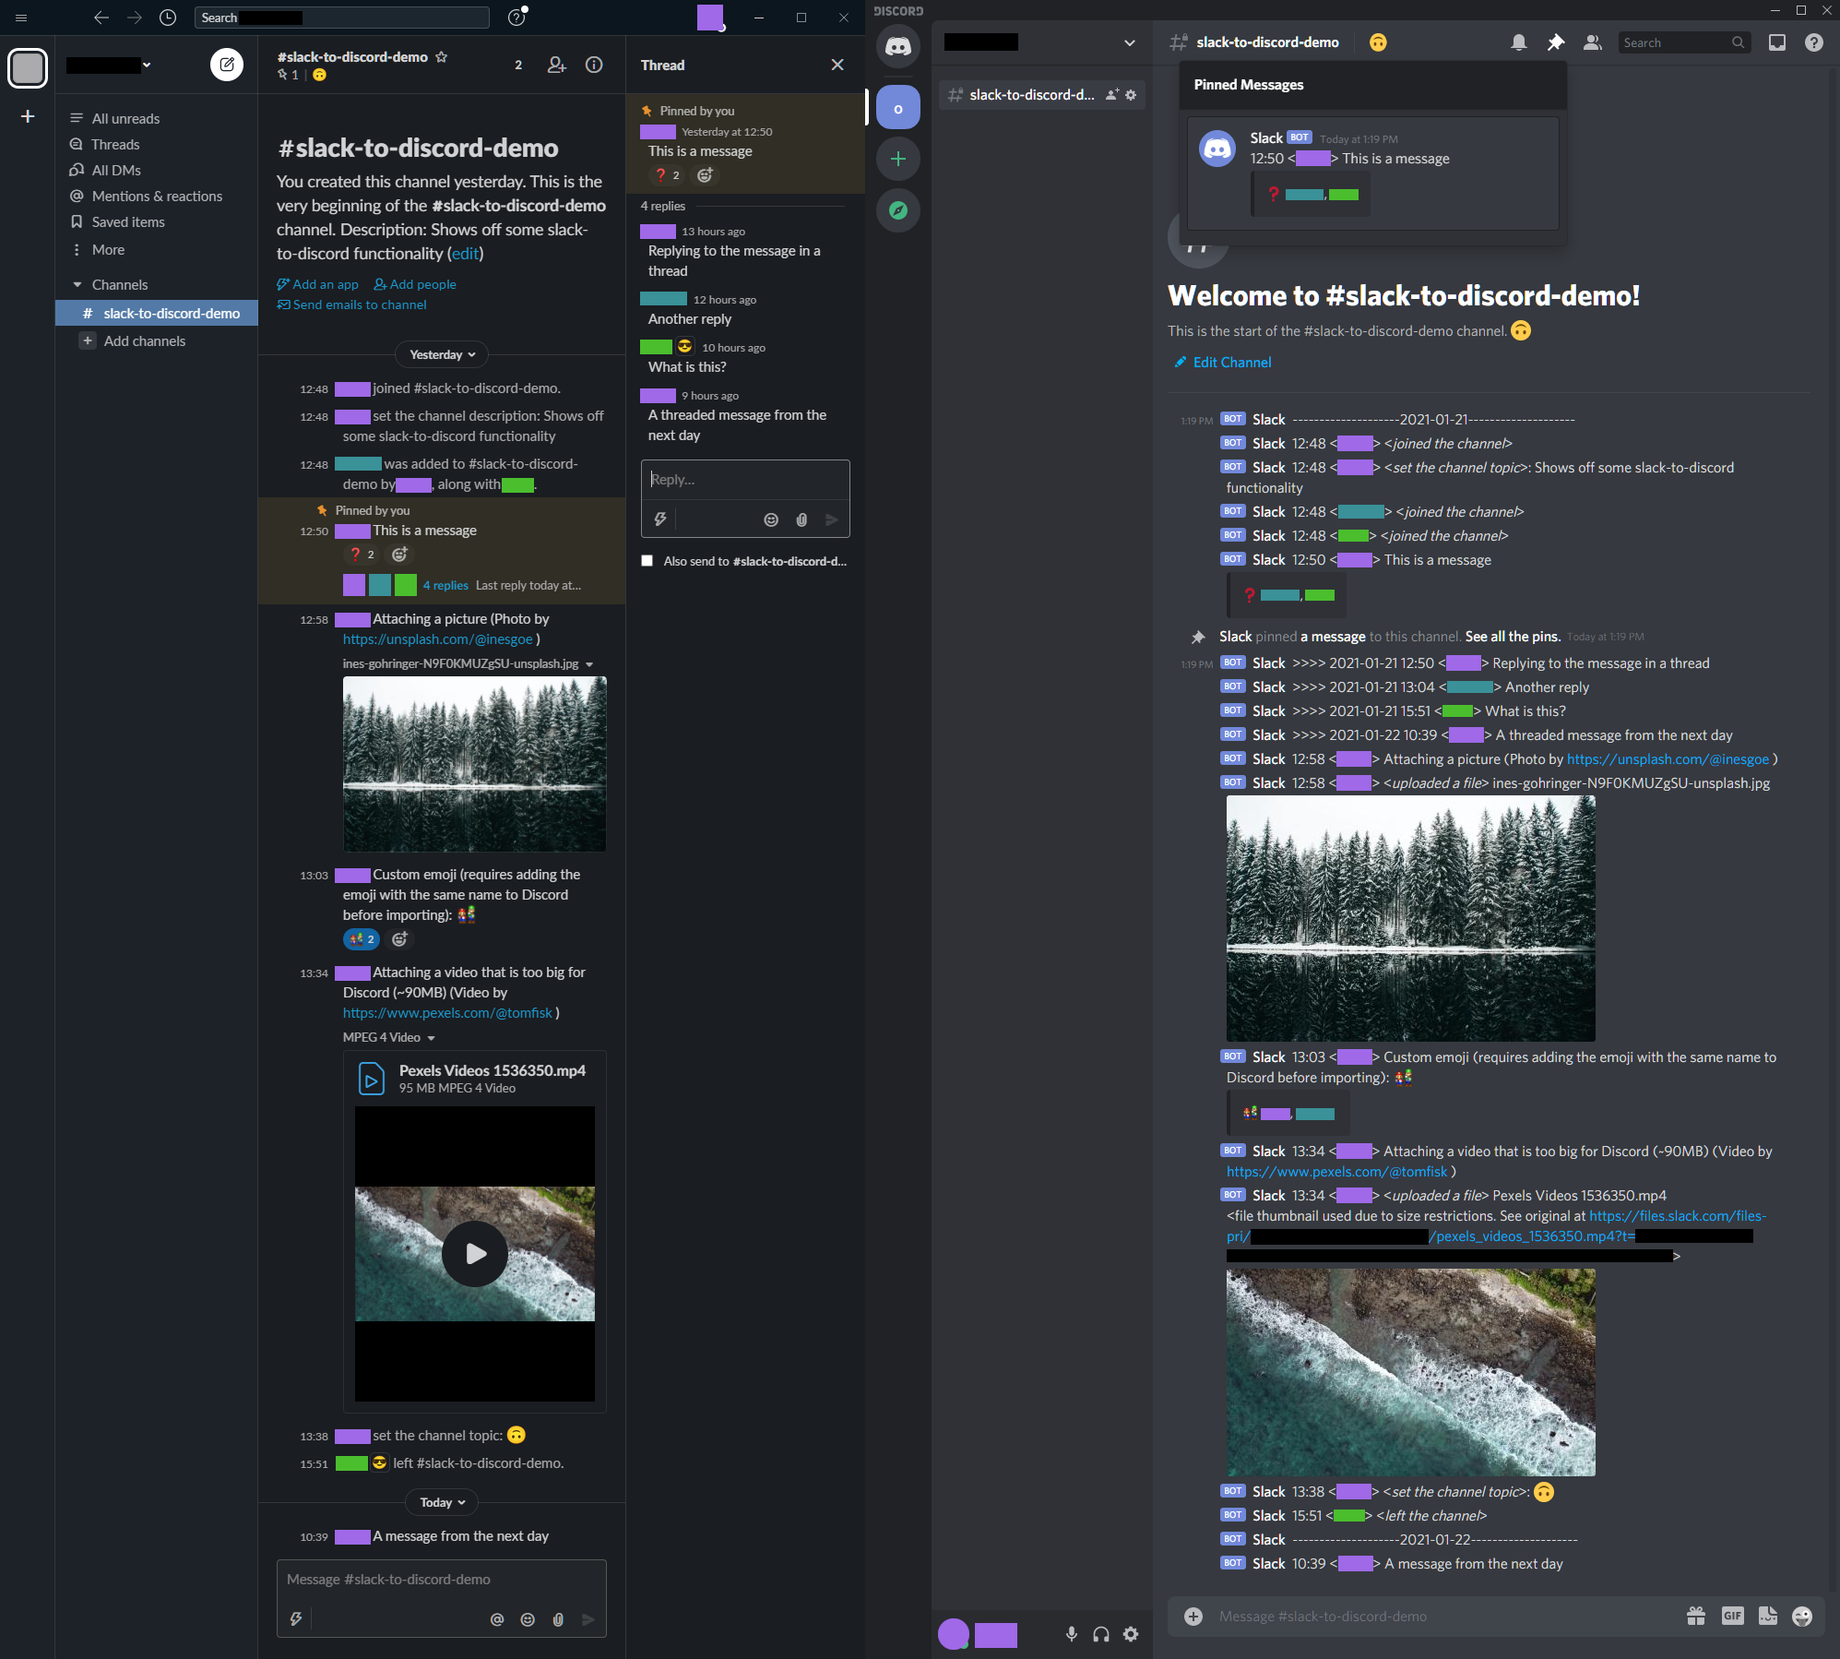
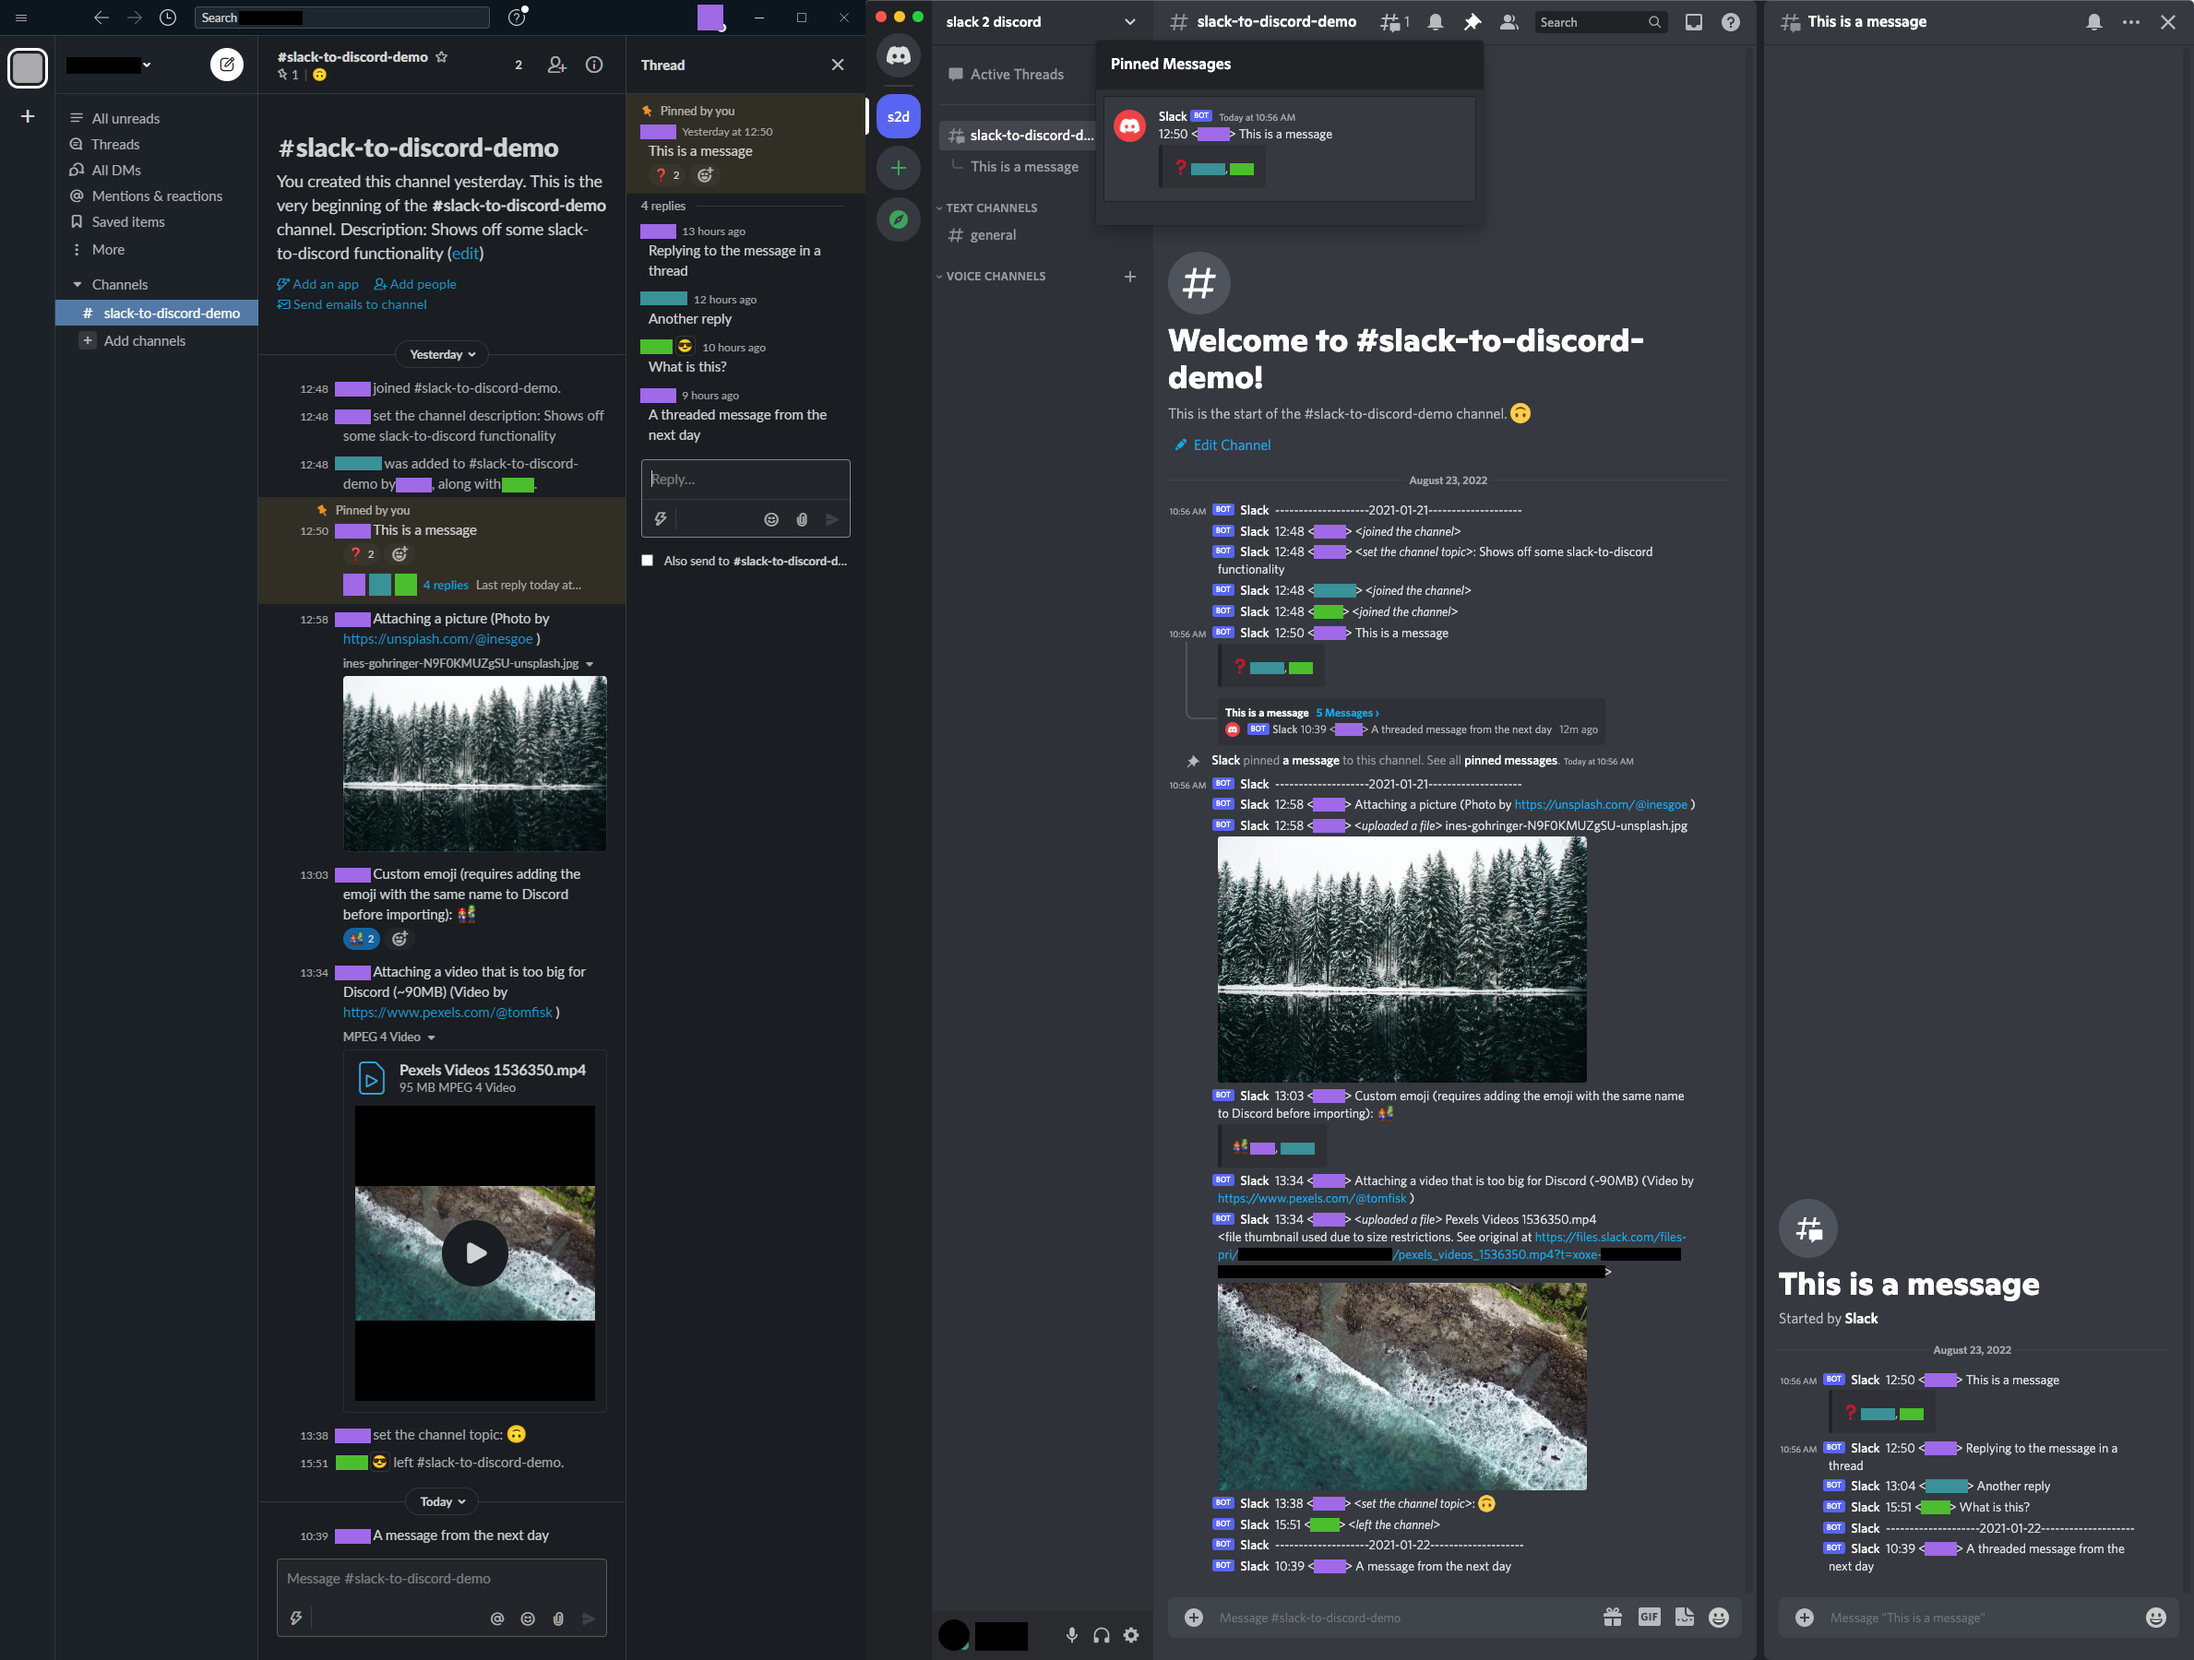
Properly implement threads
Instead of posting threads inline with a prefix, it will now use
Discord's built-in thread support.

Fixes #1

diff --git a/slack_to_discord.py b/slack_to_discord.py
@@ -17,16 +17,17 @@ from urllib.parse import urlparse
 import discord
 from discord.errors import Forbidden
 
-# Max size of message to send to Discord
+# Discord size limits
 MAX_MESSAGE_SIZE = 2000
+MAX_THREADNAME_SIZE = 100
 
 # Date and time formats
 DATE_FORMAT = "%Y-%m-%d"
 TIME_FORMAT = "%H:%M"
 
 # Formatting options for messages
-THREAD_FORMAT = ">>>> {date} {time} <**{username}**> {text}"
 MSG_FORMAT = "{time} <**{username}**> {text}"
+BACKUP_THREAD_NAME = "{date} {time}"  # used when the message to create the thread from has no text
 ATTACHMENT_TITLE_TEXT = "<*uploaded a file*> {title}"
 ATTACHMENT_ERROR_APPEND = "\n<file thumbnail used due to size restrictions. See original at <{url}>>"
 
@@ -279,9 +280,7 @@ def mark_end(iterable):
         yield True, a
 
 
-def make_discord_msgs(msg, is_reply):
-
-    msg_fmt = (THREAD_FORMAT if is_reply else MSG_FORMAT)
+def make_discord_msgs(msg):
 
     # Show reactions listed in an embed
     embed = None
@@ -295,14 +294,14 @@ def make_discord_msgs(msg, is_reply):
     # Split the text into chunks to keep it under MAX_MESSAGE_SIZE
     # Send everything except the last chunk
     content = None
-    prefix_len = len(msg_fmt.format(**{**msg, "text": ""}))
+    prefix_len = len(MSG_FORMAT.format(**{**msg, "text": ""}))
     for is_last, chunk in mark_end(textwrap.wrap(
         text=msg.get("text") or "",
         width=MAX_MESSAGE_SIZE - prefix_len,
         drop_whitespace=False,
         replace_whitespace=False
     )):
-        content = msg_fmt.format(**{**msg, "text": chunk.strip()})
+        content = MSG_FORMAT.format(**{**msg, "text": chunk.strip()})
         if not is_last:
             yield {
                 "content": content
@@ -326,7 +325,7 @@ def make_discord_msgs(msg, is_reply):
     # Send one messge per image that was posted (using the picture title as the message)
     for f in msg["files"]:
         yield {
-            "content": msg_fmt.format(**{**msg, "text": ATTACHMENT_TITLE_TEXT.format(**f)}),
+            "content": MSG_FORMAT.format(**{**msg, "text": ATTACHMENT_TITLE_TEXT.format(**f)}),
             "file_data": f,
             "embed": embed
         }
@@ -407,30 +406,33 @@ class MyClient(discord.Client):
             await self.close()
 
 
-    async def _send_slack_msg(self, channel, msg, is_reply=False):
+    async def _send_slack_msg(self, target, msg):
 
-        if not is_reply and DATE_SEPARATOR:
+        if DATE_SEPARATOR:
             msg_date = msg["date"]
             if (
                 not self._prev_msg or
                 self._prev_msg["date"] != msg_date
             ):
-                await channel.send(content=DATE_SEPARATOR.format(msg_date))
+                await target.send(content=DATE_SEPARATOR.format(msg_date))
             self._prev_msg = msg
 
+        sent = None
         pin = msg["events"].pop("pin", False)
-        for data in make_discord_msgs(msg, is_reply):
+        for data in make_discord_msgs(msg):
             for attempt in file_upload_attempts(data):
                 with contextlib.suppress(Exception):
-                    msg = await channel.send(**attempt)
+                    sent = await target.send(**attempt)
                     if pin:
                         pin = False
                         # Requires the "manage messages" optional permission
                         with contextlib.suppress(Forbidden):
-                            await msg.pin()
+                            await sent.pin()
                     break
             else:
                 print("Failed to post message: '{}'".format(data["content"]))
+
+        return sent
 
     async def _run_import(self, g):
         self._started = True
@@ -481,11 +483,17 @@ class MyClient(discord.Client):
                     await ch.edit(topic=topic)
 
                 # Send message and threaded replies
-                await self._send_slack_msg(ch, msg)
+                sent = await self._send_slack_msg(ch, msg)
                 c_msg += 1
-                for rmsg in msg["replies"]:
-                    await self._send_slack_msg(ch, rmsg, is_reply=True)
-                    c_msg += 1
+                if sent and msg["replies"]:
+                    thread_name = (
+                        textwrap.wrap(msg.get("text") or "", max_lines=1, width=MAX_THREADNAME_SIZE, placeholder="…") or
+                        [BACKUP_THREAD_NAME.format(**msg).replace(":", "-")]  # ':' is not allowed in thread names
+                    )[0]
+                    thread = await sent.create_thread(name=thread_name)
+                    for rmsg in msg["replies"]:
+                        await self._send_slack_msg(thread, rmsg)
+                        c_msg += 1
             print("Done!")
         print("Imported {} messages into {} channel(s) in {}".format(c_msg, c_chan, datetime.now()-start_time))
 

diff --git a/README.md b/README.md
@@ -13,8 +13,7 @@ Capabilities
   big to upload).
 - Preserves emojis and reactions to messages (custom emojis will work, but need to be manually added
   to Discord before importing).
-- Preserves threaded conversations (threaded messages are displayed after the parent message and
-  indented).
+- Preserves threaded conversations.
 - Preserves pinned messages.
 - Day boundaries between messages are marked by a `--------YYYY-MM-DD--------` message and each
   message is prefixed by the time it was sent.
@@ -55,11 +54,13 @@ Instructions
 1. Export your data from Slack via <https://my.slack.com/services/export>
 2. Create a Discord bot (see <https://discordpy.readthedocs.io/en/latest/discord.html>) with the
    following permissions:
-    - Manage Channels (to create the imported channels and change the topics of them)
-    - Manage Messages - to pin messages [optional]
+    - Manage Channels - to create the imported channels and change the topics of them
     - Send Messages
+    - Create Public Threads
+    - Send Messages in Threads
     - Embed Links (to 'react' to messages - see 'Limitations' above)
     - Attach Files
+    - Manage Messages - to pin messages [optional]
 3. Install `slack-to-discord` using `pip` (`pip install git+https://github.com/pR0Ps/slack-to-discord`)
 4. Run `slack-to-discord --zipfile <slack export zip> --guild <guild name> --token <bot token>`
    (check `slack-to-discord --help` for other options).
